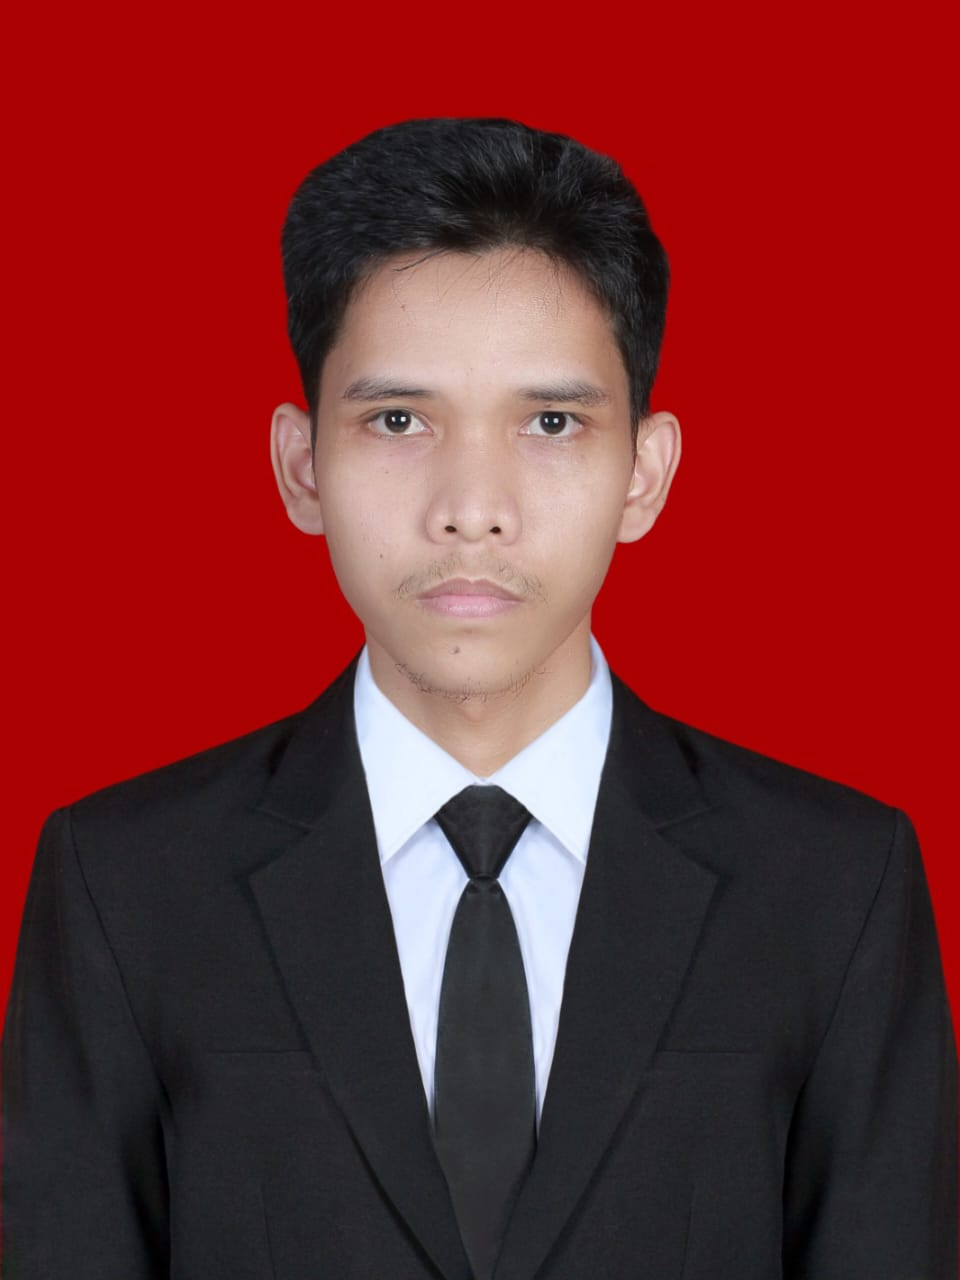
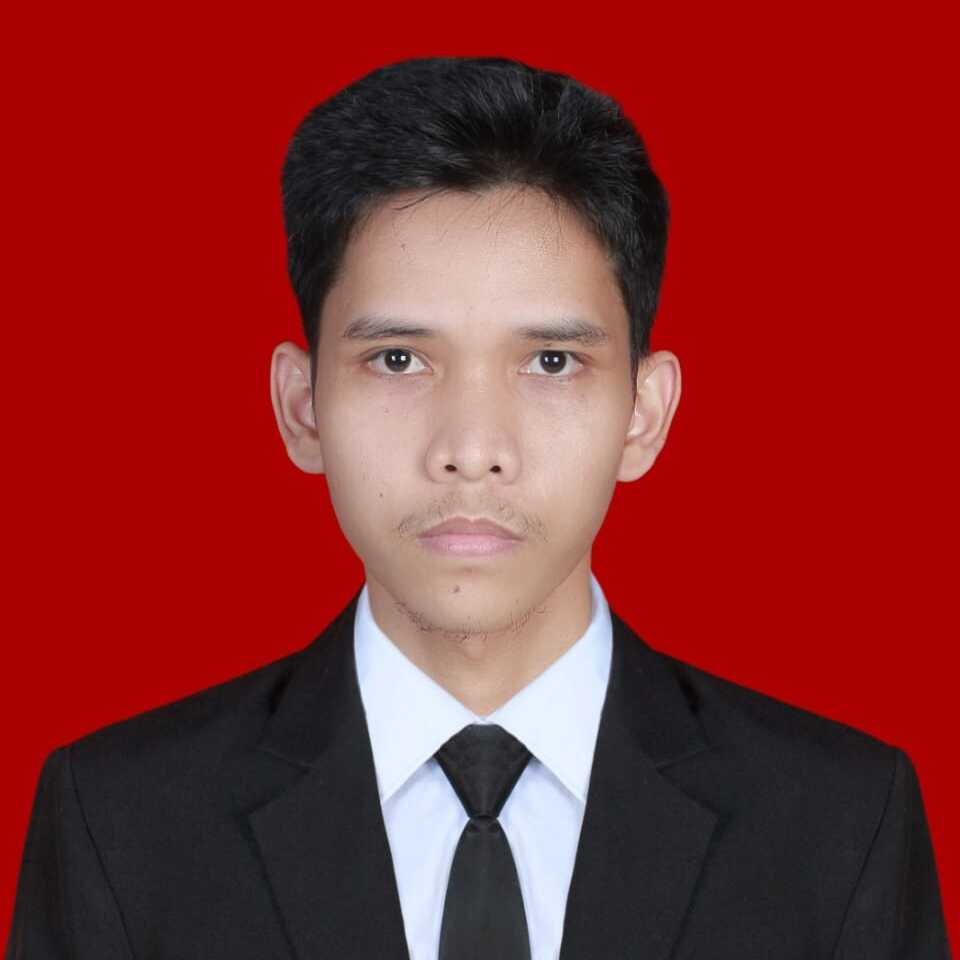
edit profile-pic

Changed region(s): [[0.0, 0.0312, 1.0, 1.0], [0.8125, 0.8438, 0.875, 1.0], [0.125, 0.8438, 0.1875, 1.0]]

diff --git a/style.css b/style.css
@@ -165,9 +165,14 @@ section {
 .section-pic-container {
   display: flex;
   margin: auto 0;
-  height: 400px;
-  width: 400px;
+  height: 250px;
+  width: 250px;
   justify-content: center;
+}
+
+.section-pic-container img {
+  height: 100%;
+  border-radius: 50%;
 }
 
 .section-text {
